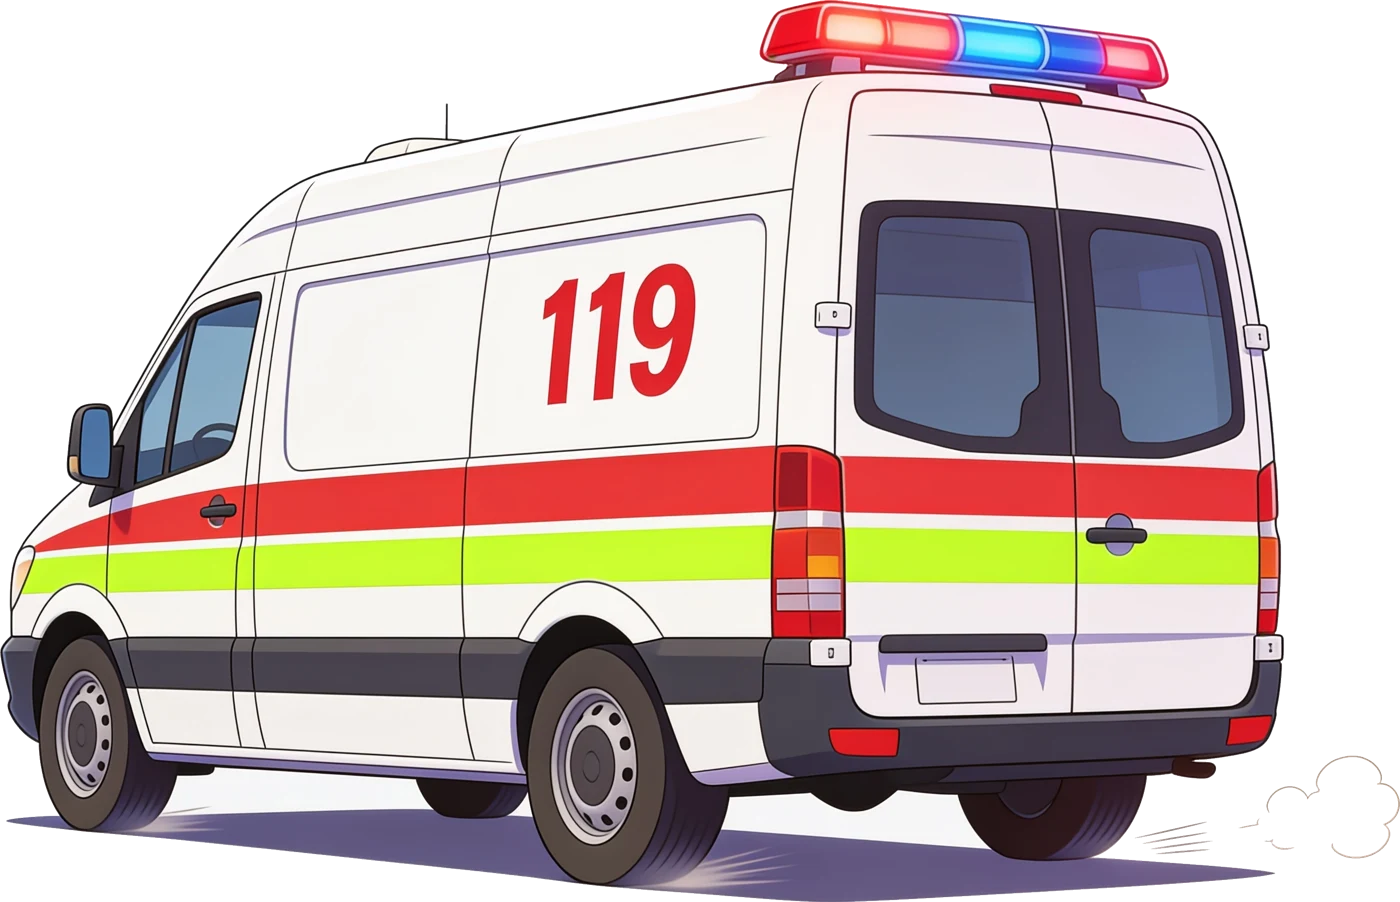
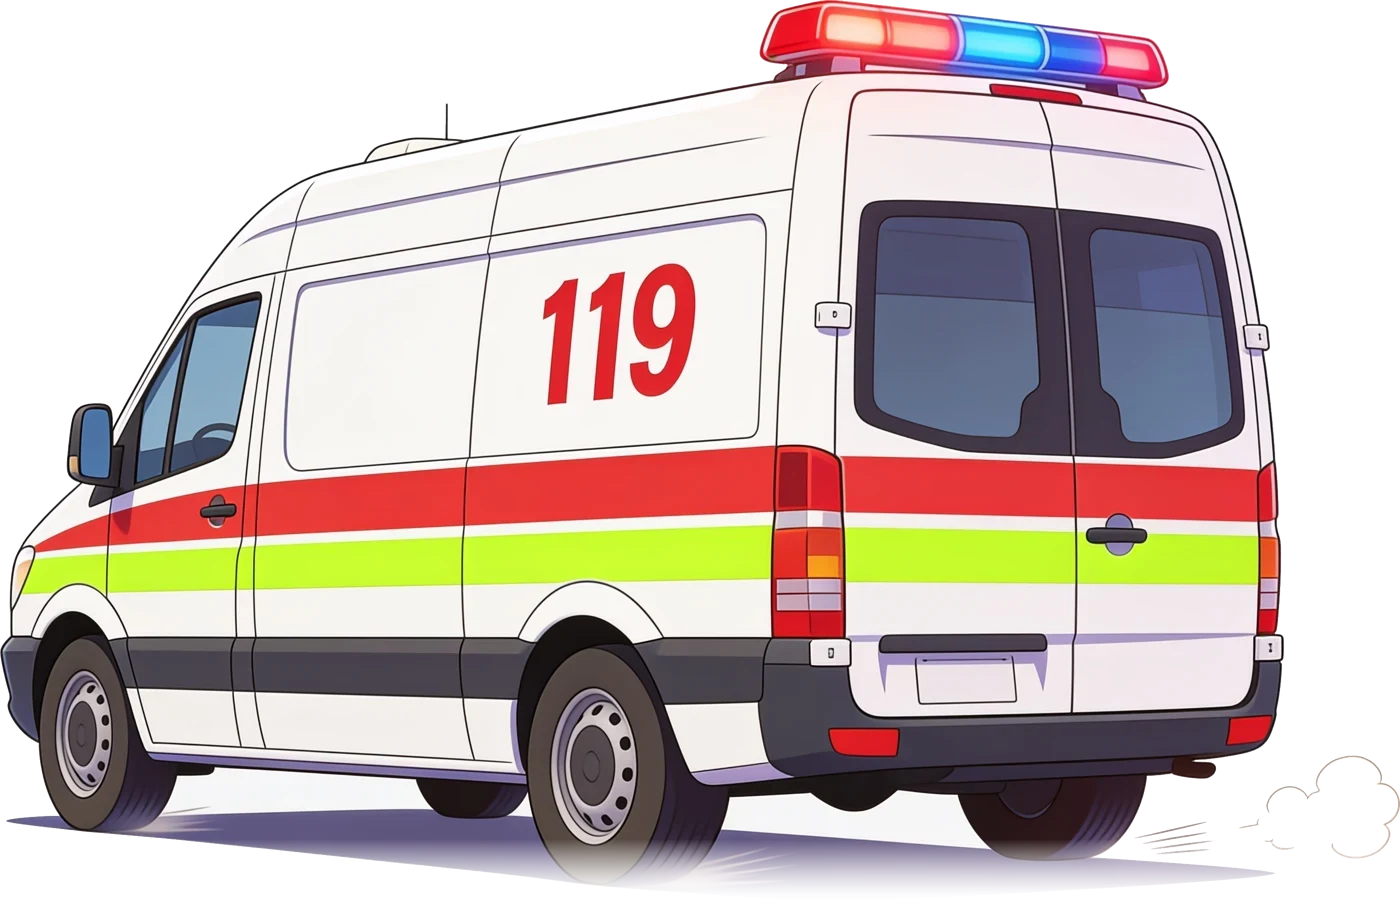
부표 스매시 파도·구급차 그림 끝 네모 잘림 부드럽게 / 시험판: 초딩 날아차기 앞쪽 발차기 그림으로

Changed region(s): [[0.1843, 0.9313, 0.9214, 1.0]]

diff --git a/play_beta/characters.js b/play_beta/characters.js
@@ -81,7 +81,7 @@ window.CHARACTERS = {
       rapid:    { anim: [['g_rapid', 0], ['g_punch2', 5], ['g_rapid', 10], ['g_punch2', 15], ['g_rapid', 20]], startup: 3, active: 22, recovery: 10, dmg: 2, hitstun: 12, blockstun: 8, push: 3, hitbox: { x: 40, w: 170, y: 300, h: 140 }, level: 'mid', multi: 6 },
       crouchPunch: { pose: 'g_upper', startup: 4, active: 6, recovery: 16, dmg: 9, hitstun: 22, blockstun: 12, push: 8, hitbox: { x: 0, w: 150, y: 250, h: 380 }, level: 'mid', kd: true, voice: 'g_hat', antiAir: true },   // 10/2 리치 짧은 대신 아래 공격 강화
       crouchKick:  { anim: [['g_duck', 0], ['g_sweep', 5]], startup: 5, active: 6, recovery: 18, dmg: 9, hitstun: 20, blockstun: 12, push: 9, hitbox: { x: 30, w: 260, y: 0, h: 110 }, level: 'low', kd: true, voice: 'g_yap', hy: 60 },   // 10/2 리치 짧은 대신 아래 공격 강화
-      jumpAttack:  { pose: 'g_knee', startup: 4, active: 14, recovery: 4, dmg: 8, hitstun: 18, blockstun: 10, push: 8, hitbox: { x: 20, w: 175, y: 120, h: 220 }, level: 'high', voice: 'g_yap' },
+      jumpAttack:  { pose: 'g_round', startup: 4, active: 14, recovery: 4, dmg: 8, hitstun: 18, blockstun: 10, push: 8, hitbox: { x: 20, w: 175, y: 120, h: 220 }, level: 'high', voice: 'g_yap' },
     },
     commands: [
       { name: '고래빵 던지기', move: 'cmdToss', btn: 'p', motion: '236', easy: 'f', desc: '작은 고래빵이 날아가요' },
